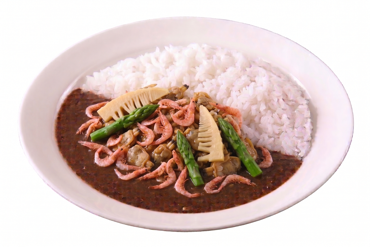
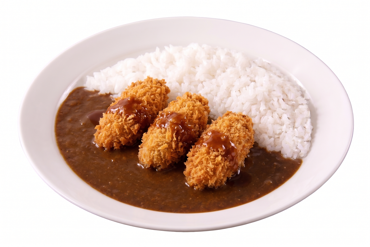
Update oyster fry curry menu asset

Changed region(s): [[0.1486, 0.3117, 0.8324, 0.8785], [0.6541, 0.2551, 0.6838, 0.3117]]

diff --git a/CocoichiPoC/Data/MockCatalog.swift b/CocoichiPoC/Data/MockCatalog.swift
@@ -489,7 +489,7 @@ private enum CurryMenuMasterLoader {
             return "the-gyu-curry"
         case "手仕込ささみカツ(2本)カレー":
             return "handmade-chicken-tender-cutlet-curry"
-        case "桜えびとあさりの春野菜カレー":
+        case "桜えびとあさりの春野菜カレー", "カキフライカレー":
             return "sakura-shrimp-asari-spring-vegetable-curry"
         case "ロースカツカレー":
             return "loin-cutlet-curry"
@@ -637,9 +637,9 @@ private enum CurryMenuMasterLoader {
       - name: 手仕込ささみカツ(2本)カレー
         price: 1082
         comment: 手仕込のささみカツで食べごたえを足せる限定メニュー
-      - name: 桜えびとあさりの春野菜カレー
+      - name: カキフライカレー
         price: 920
-        comment: 春らしい具材を重ねて軽やかに楽しめる限定カレー
+        comment: サクッとしたカキフライを主役に楽しめる限定カレー
 
     肉類のカレー:
       - name: ポークカレー
